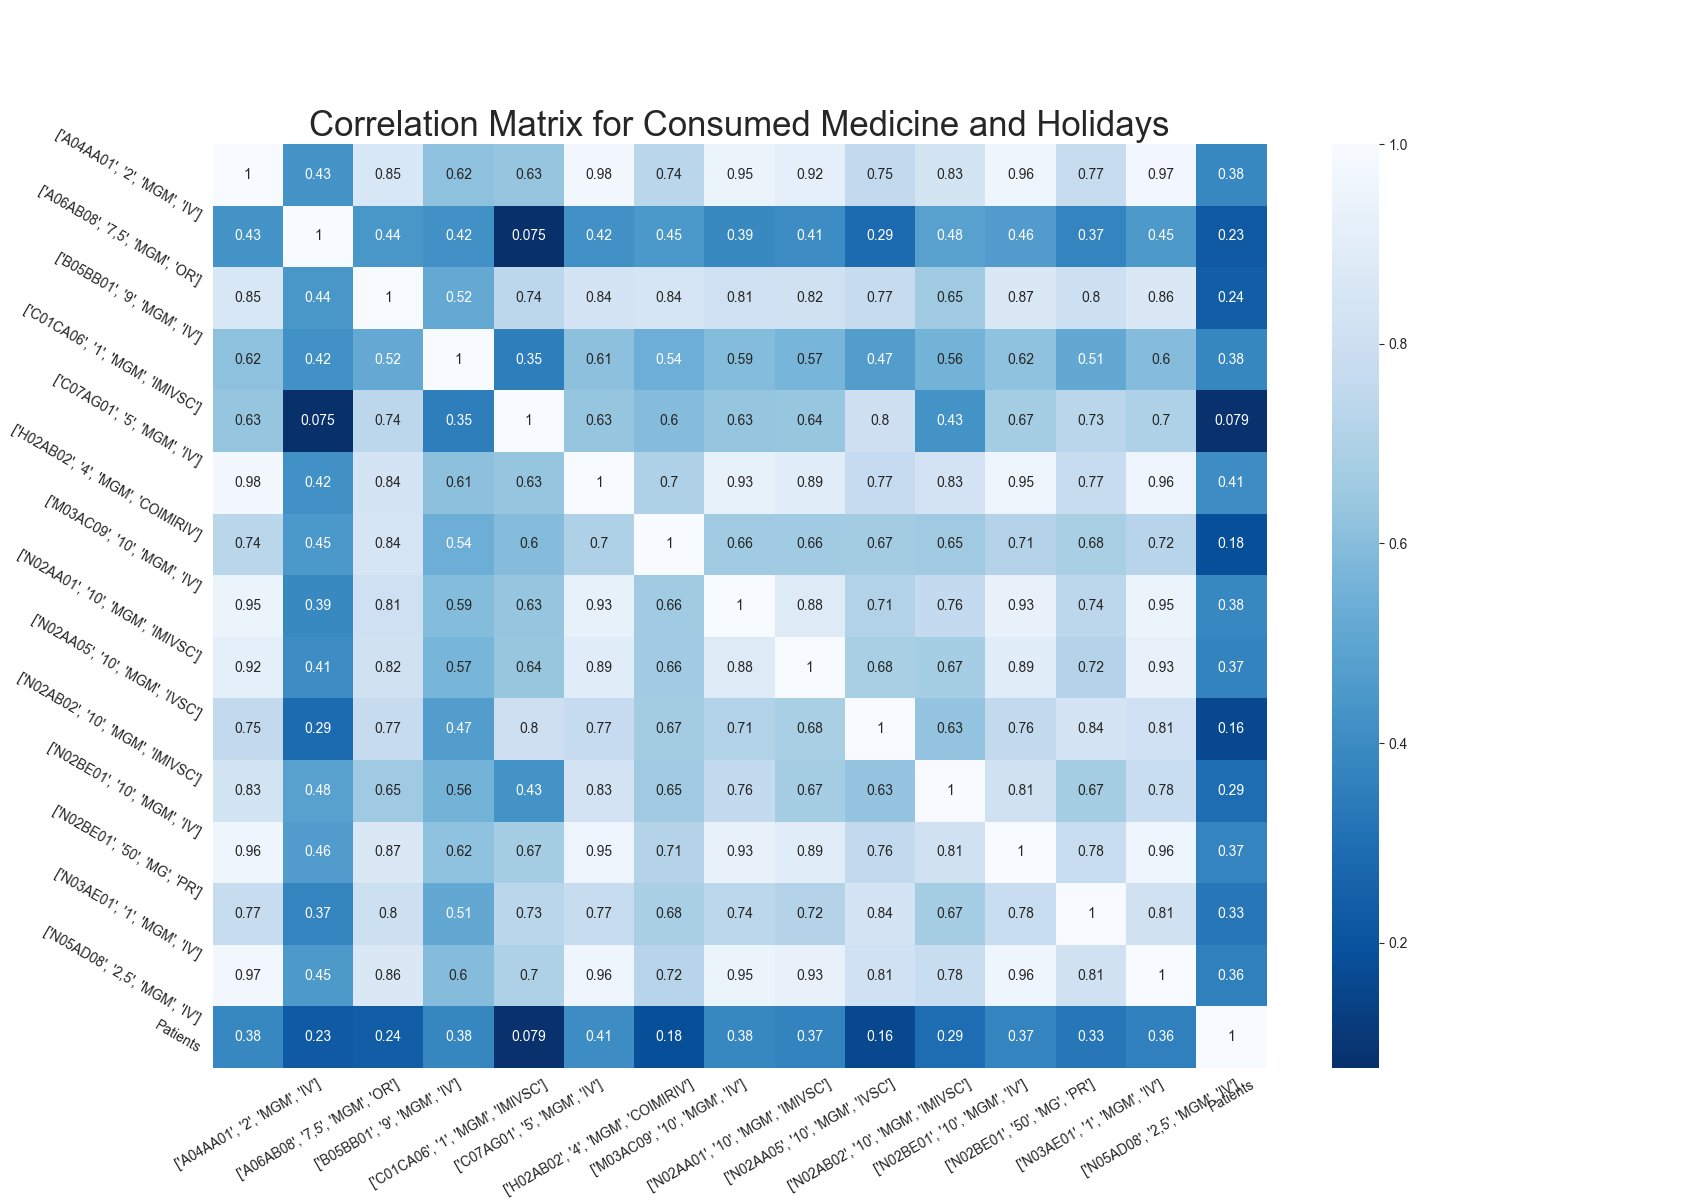
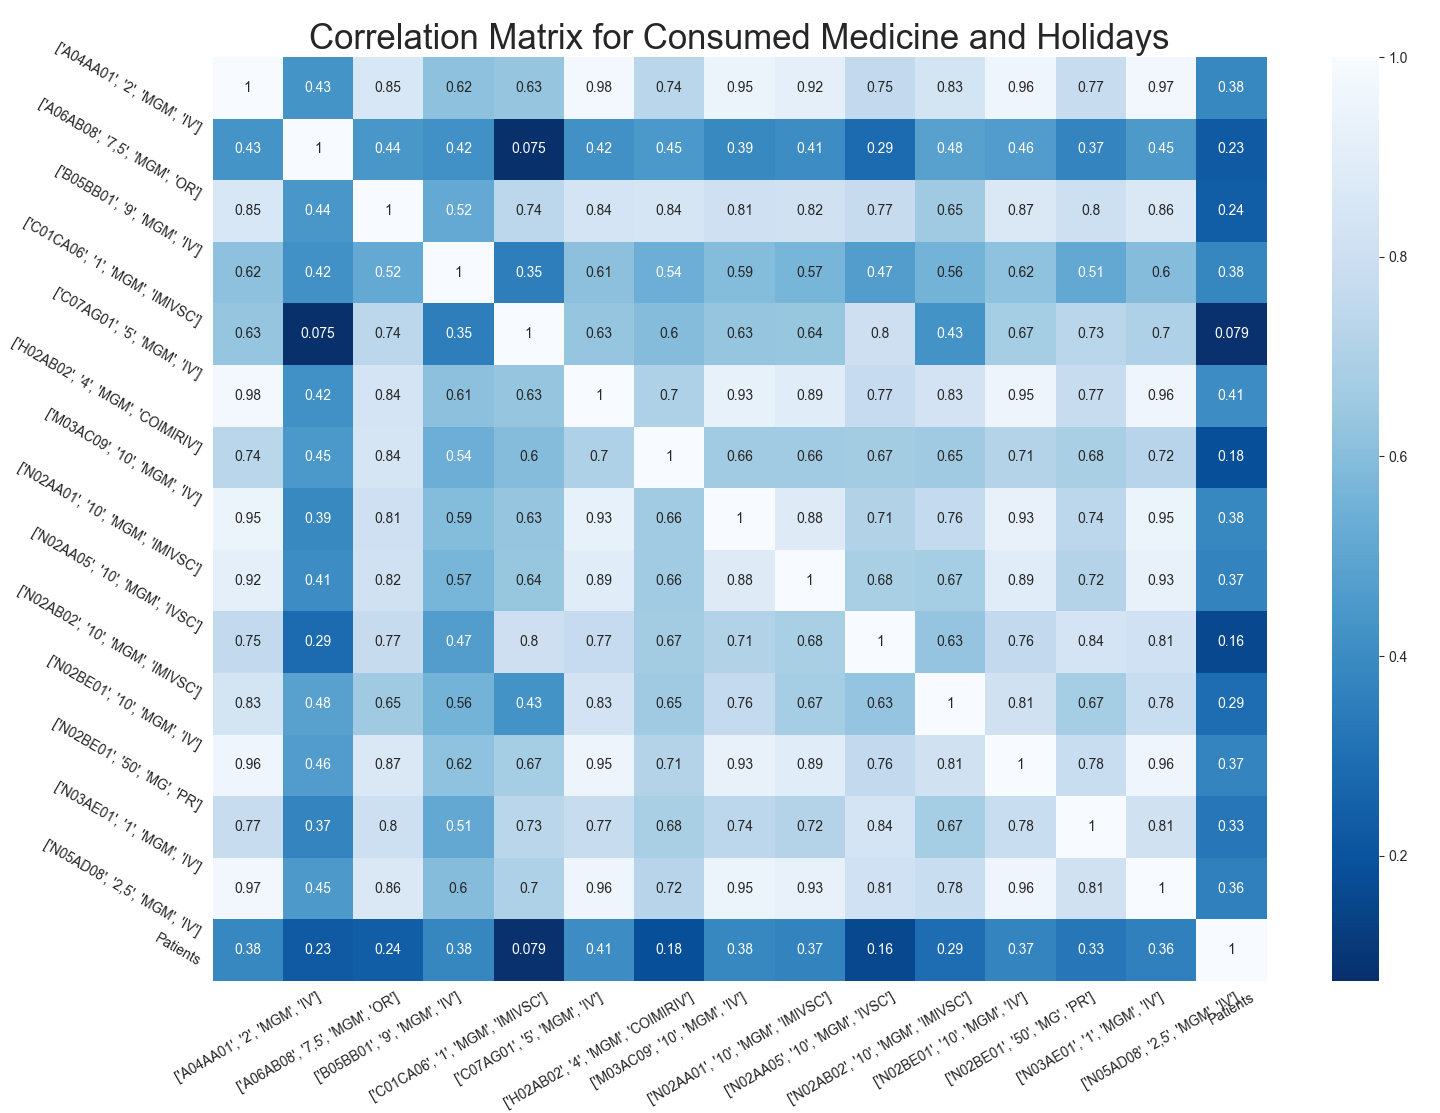
Updated

diff --git a/Descriptive_statistics.py b/Descriptive_statistics.py
@@ -7,7 +7,12 @@ import matplotlib.pyplot as plt
 from seaborn_qqplot import pplot
 import numpy as np
 import collections
+import random
 import statsmodels.stats.api as sms
+from numpy.random import normal
+import statsmodels.api as sm
+from statsmodels.graphics.gofplots import qqplot_2samples
+
 #Load Data
 f = open('./Data/weekly_consumptions_Akeys.json')
 con_dict = json.load(f)
@@ -23,6 +28,7 @@ def des_stat(d):
     mini = []
     maxi = []
     avg = []
+    med = []
     std = []
     coeff = []
     zero_count = []
@@ -33,6 +39,7 @@ def des_stat(d):
         mini.append(min(d[key]))
         maxi.append(max(d[key]))
         avg.append(round(st.mean(d[key]),2))
+        med.append(round(st.median(d[key]),2))
         total.append(sum(d[key]))
         std.append(round(st.pstdev(d[key]),2))
         coeff.append(round(st.pstdev(d[key])/st.mean(d[key]),2))
@@ -42,8 +49,8 @@ def des_stat(d):
         conf_int.append(ci)
     keys = [w.replace('[', '$[') for w in keys]
     keys = [w.replace(']', ']$') for w in keys]
-    df = pd.DataFrame(list(zip(keys,mini,maxi,avg,total,std,conf_int,coeff,zero_count)), columns=['Identifier','Minimum','Maximum',
-                                                                                      'Average','Total','Standard Deviation','Confidence Interval','Coefficient of Variation','Weeks with 0 Units'])
+    df = pd.DataFrame(list(zip(keys,mini,maxi,avg,med,total,std,conf_int,coeff,zero_count)), columns=['Identifier','Minimum','Maximum',
+                                                                                      'Average','Median','Total','Standard Deviation','Confidence Interval','Coefficient of Variation','Weeks with 0 Units'])
     return df
 
 
@@ -63,6 +70,7 @@ def choose_identifiers(df,d):
 con_dict_updated = choose_identifiers(con_stat,con_dict)
 with open('./Data/c1.json', 'w') as f:
     json.dump(con_dict_updated, f)
+
 def test_normality(d):
     keys = []
     p_val = []
@@ -83,82 +91,34 @@ def to_df(d):
     d = collections.OrderedDict(sorted(d.items()))
     week = list(np.arange(1,54,1))*len(d)
     vals = [item for sublist in list(d.values()) for item in sublist]
+    dist = []
     id = []
     for i,key in enumerate(d.keys()):
         l = [key]*len(d[key])
         id.append(l)
+        dist.append(list(normal(loc=0, scale=1,
+                    size=len(d[key]))))
     id = [item for sublist in id for item in sublist]
-    df = pd.DataFrame(list(zip(id,week,vals)), columns=['Identifier', 'Week','Number of Consumed Units'])
+    dist = [item for sublist in dist for item in sublist]
+    df = pd.DataFrame(list(zip(id,week,vals,dist)), columns=['Identifier', 'Week','Number of Consumed Units','Distribution'])
     return df
-
-df = to_df(con_dict_updated)
-
 def QQ(df):
     ax1 = sns.set_style("darkgrid", {"grid.color": ".6", "grid.linestyle": ":"})
     fig, ax1 = plt.subplots(figsize=(12, 6))
-    p = pplot(df,x='Week', y='Number of Consumed Units', hue='Identifier', kind='qq', height=8, aspect=2,
-               display_kws={"identity": False, "fit": True, "reg": True, "ci": 0.025})
-    p.fig.suptitle('Quantile-Quantile plot for the identifiers',fontsize=25)
-    p.axes[0,0].set_xlabel('Week Number',fontsize=15)
-    p.axes[0, 0].set_ylabel('Number of Consumed Units', fontsize=15)
+    p = pplot(df,x='Distribution', y='Number of Consumed Units',hue='Identifier', kind='qq', height=8, aspect=2,
+               display_kws={"identity": False, "fit": True, "reg": True, "ci": 0.05})
+    p.fig.suptitle('Quantile-Quantile Plot Medicine Consumption',fontsize=20)
+    p.axes[0,0].set_xlabel('Theoretical Quantile',fontsize=10)
+    p.axes[0,0].set_ylabel('Number of Consumed Units', fontsize=10)
     plt.savefig('./Figures/QQ.png')
     plt.close('all')
 
+df = to_df(con_dict_updated)
 QQ(df)
 
-def new_df(d):
-    df = pd.DataFrame.from_dict(d,orient='columns')
-    holiday_calender = [1, 0, 0, 0, 0, 0, 0, 1, 0, 0, 0, 0, 0, 1, 1, 0, 0, 0, 0, 1, 0, 0, 0, 0, 0, 0, 1, 1, 1, 1, 1, 1, 0, 0, 0,
-                0, 0, 0, 0, 0, 0, 0, 1, 0, 0, 0, 0, 0, 0, 0, 0, 1, 1]
-    df['Holidays'] = holiday_calender
-    return df
-
-def new_df1(d,p):
-    df = pd.DataFrame.from_dict(d,orient='columns')
-    df['Patients'] = p.values()
-    return df
-
-def corrfunc(x, y, **kws):
-    r, _ = stats.pearsonr(x, y)
-    ax = plt.gca()
-    ax.annotate("r = {:.2f}".format(r),
-                xy=(.1, .9), xycoords=ax.transAxes)
-def cor_plot(df):
-    ax1 = sns.set_style("darkgrid", {"grid.color": ".6", "grid.linestyle": ":"})
-    fig, ax1 = plt.subplots(figsize=(12, 6))
-    g = sns.PairGrid(df, palette=["red"])
-    g.map_upper(plt.scatter, s=10)
-    g.map_diag(sns.distplot, kde=False)
-    g.map_lower(sns.kdeplot, cmap="Blues_d")
-    g.map_lower(corrfunc)
-    g.fig.suptitle('Correlation Between Consumed Medicine and Holidays')
-    plt.savefig('./Figures/Correlation_Holidays.png')
-    plt.close('all')
-
-def corr_matrix(df,j):
-    ax1 = sns.set_style("darkgrid", {"grid.color": ".6", "grid.linestyle": ":"})
-    fig, ax1 = plt.subplots(figsize=(17, 12))
-    corr = df.corr()
-    sns.heatmap(corr,
-                xticklabels=corr.columns.values,
-                yticklabels=corr.columns.values,ax=ax1,cmap='Blues_r',annot=True)
-    plt.yticks(rotation=-30)
-    plt.xticks(rotation=30)
-    if j == 'Holidays':
-        ax1.set_title('Correlation Matrix for Condumed Medicine and Holidays',fontsize=25)
-        plt.savefig('./Figures/Correlation_Matrix_H.png')
-    elif j == 'Patients':
-        ax1.set_title('Correlation Matrix for Consumed Medicine and Holidays',fontsize=25)
-        plt.savefig('./Figures/Correlation_Matrix_P.png')
 
 
-df1 = new_df(con_dict_updated)
 
-cor_plot(df1)
-corr_matrix(df1,j='Holidays')
-
-df2 = new_df1(con_dict_updated,pw)
-corr_matrix(df2,j='Patients')
 
 
 

diff --git a/Correlations1.py b/Correlations1.py
@@ -1,0 +1,78 @@
+import pandas as pd
+import matplotlib.pyplot as plt
+import json
+from scipy import stats
+import seaborn as sns
+
+f = open('./Data/Patients_Weekly.json')
+pw = json.load(f)
+f = open('./Data/c1.json')
+con_dict_updated = json.load(f)
+
+def new_df(d):
+    df = pd.DataFrame.from_dict(d,orient='columns')
+    holiday_calender = [1, 0, 0, 0, 0, 0, 0, 1, 0, 0, 0, 0, 0, 1, 1, 0, 0, 0, 0, 1, 0, 0, 0, 0, 0, 0, 1, 1, 1, 1, 1, 1, 0, 0, 0,
+                0, 0, 0, 0, 0, 0, 0, 1, 0, 0, 0, 0, 0, 0, 0, 0, 1, 1]
+    df['Holidays'] = holiday_calender
+    return df
+
+def new_df1(d,p):
+    df = pd.DataFrame.from_dict(d,orient='columns')
+    df['Patients'] = p.values()
+    return df
+
+def corrfunc(x, y, **kws):
+    r, _ = stats.pearsonr(x, y)
+    ax = plt.gca()
+    ax.annotate("r = {:.2f}".format(r),
+                xy=(.1, .9), xycoords=ax.transAxes)
+def cor_plot(df):
+    ax1 = sns.set_style("darkgrid", {"grid.color": ".6", "grid.linestyle": ":"})
+    fig, ax1 = plt.subplots(figsize=(12, 6))
+    g = sns.PairGrid(df, palette=["red"])
+    g.map_upper(plt.scatter, s=10)
+    g.map_diag(sns.distplot, kde=False)
+    g.map_lower(sns.kdeplot, cmap="Blues_d")
+    g.map_lower(corrfunc)
+    g.fig.suptitle('Correlation Between Consumed Medicine and Patients')
+    plt.savefig('./Figures/Correlation_Holidays.png')
+    plt.close('all')
+
+def corr_matrix_Patients(df):
+    ax1 = sns.set_style("darkgrid", {"grid.color": ".6", "grid.linestyle": ":"})
+    fig, ax1 = plt.subplots(figsize=(17, 12))
+    corr = df.corr()
+    sns.heatmap(corr,
+                xticklabels=corr.columns.values,
+                yticklabels=corr.columns.values,ax=ax1,cmap='Blues_r',annot=True)
+    plt.yticks(rotation=-30)
+    plt.xticks(rotation=30)
+    ax1.set_title('Correlation Matrix for Consumed Medicine and Holidays',fontsize=25)
+    plt.savefig('./Figures/Correlation_Matrix_P.png')
+
+def corr_table_holidays(df,k):
+    a = stats.pointbiserialr(df['Holidays'], df[k])
+    df1 = df[df['Holidays'] == 1]
+    df2 = df[df['Holidays'] == 0]
+    l = stats.levene(df1[k],df2[k])
+    return [round(l[1],2),round(a[0],2),round(a[1],2)]
+
+def corr_table_patients(df,k):
+    a = stats.pointbiserialr(df['Patients'], df[k])
+    l = stats.levene(df['Patients'],df[k])
+    return [round(l[1],2),round(a[0],2),round(a[1],2)]
+
+df1 = new_df(con_dict_updated)
+df2 = new_df1(con_dict_updated,pw)
+holidays_corr = {}
+pat_corr = {}
+for key in con_dict_updated.keys():
+    holidays_corr[key] = corr_table_holidays(df1,key)
+    pat_corr[key] = corr_table_patients(df2,key)
+df1 = pd.DataFrame.from_dict(holidays_corr,columns=['P-value Variance','Correlation Coefficient','P-value Correlation'],orient='index')
+df2 = pd.DataFrame.from_dict(pat_corr,columns=['P-value Variance','Correlation Coefficient','P-value Correlation'],orient='index')
+t1 = df1.to_latex(index=True)
+t1 = t1.replace('[','$[')
+t1 = t1.replace(']',']$')
+
+corr_matrix_Patients(df2)

diff --git a/Correlations2.py b/Correlations2.py
@@ -1,0 +1,50 @@
+import pandas as pd
+import matplotlib.pyplot as plt
+import json
+from scipy import stats
+import seaborn as sns
+
+df = pd.read_csv('./Data/matched_con_data.csv',sep=',')
+f = open('./Data/Patients_Weekly.json')
+pw = json.load(f)
+
+def con_dict(df,dep):
+    df = df.loc[lambda df: df['Department'] == dep]
+    df['Date'] = pd.to_datetime(df['Date'])
+    df = df.groupby(['Department', df['Date'].dt.strftime('%W')])[
+        'Number_ordinations'].sum()
+    df = df.to_frame()
+    df = df.reset_index(level=[0,1])
+    for i in range(0,53,1):
+        if i <=9:
+            i = '0{}'.format(i)
+            if i not in list(df['Date']):
+                df = df.append({'Department':dep,'Date': i,'Number_ordinations':0},ignore_index=True)
+        else:
+            if str(i) not in list(df['Date']):
+                df = df.append({'Department':dep,'Date': str(i),'Number_ordinations':0},ignore_index=True)
+    df = df.sort_values(by=['Date'])
+    dep_weekly_consumptions = list(df['Number_ordinations'])
+    return dep_weekly_consumptions
+
+dict_con = {}
+
+for dep in list(set(df['Department'])):
+    dict_con[dep] = con_dict(df,dep)
+
+def new_df(d,p):
+    df = pd.DataFrame.from_dict(d,orient='columns')
+    df['Patients'] = p.values()
+    return df
+
+def corr_table_holidays(df,k):
+    a = stats.pointbiserialr(df['Patients'], df[k])
+    return [round(a[0],2),round(a[1],2)]
+
+df1 = new_df(dict_con,pw)
+patients_corr = {}
+for key in sorted(dict_con.keys()):
+    abb = key.split(',')[0]
+    patients_corr[abb] = corr_table_holidays(df1,key)
+df1 = pd.DataFrame.from_dict(patients_corr,columns=['Correlation Coefficient','P-value'],orient='index')
+t1 = df1.to_latex(index=True)

diff --git a/ABC.py b/ABC.py
@@ -100,12 +100,15 @@ print(df.describe())
 # Scatterplot
 ax1 = sns.set_style("darkgrid", {"grid.color": ".6", "grid.linestyle": ":"})
 fig, ax1 = plt.subplots(figsize=(12, 6))
-scatter = sns.scatterplot(data=df, x="Qty", y="AnnualConsumptionValue", hue="Class", size="UnitCost", palette="husl", legend=False)
-scatter.set_title("Quantity vs Annual Consumption Value",fontsize=20)
-scatter.set_xlabel('Quantity',fontsize=15)
-scatter.set_ylabel('Annual Consumption Value',fontsize=15)
+s = sns.scatterplot(data=df, x="Qty", y="AnnualConsumptionValue", hue="Class", size="UnitCost", palette="husl", legend=True)
+h, l = s.get_legend_handles_labels()
+plt.legend(h[0:4], l[0:4],loc='upper right')
+ax1.set_title("Quantity vs Annual Consumption Value",fontsize=20)
+ax1.set_xlabel('Quantity',fontsize=15)
+ax1.set_ylabel('Annual Consumption Value',fontsize=15)
 plt.savefig('./Figures/ABCScatter.png')
 plt.close('all')
+
 
 # Graph
 performance = df['CumPct'].tolist()
